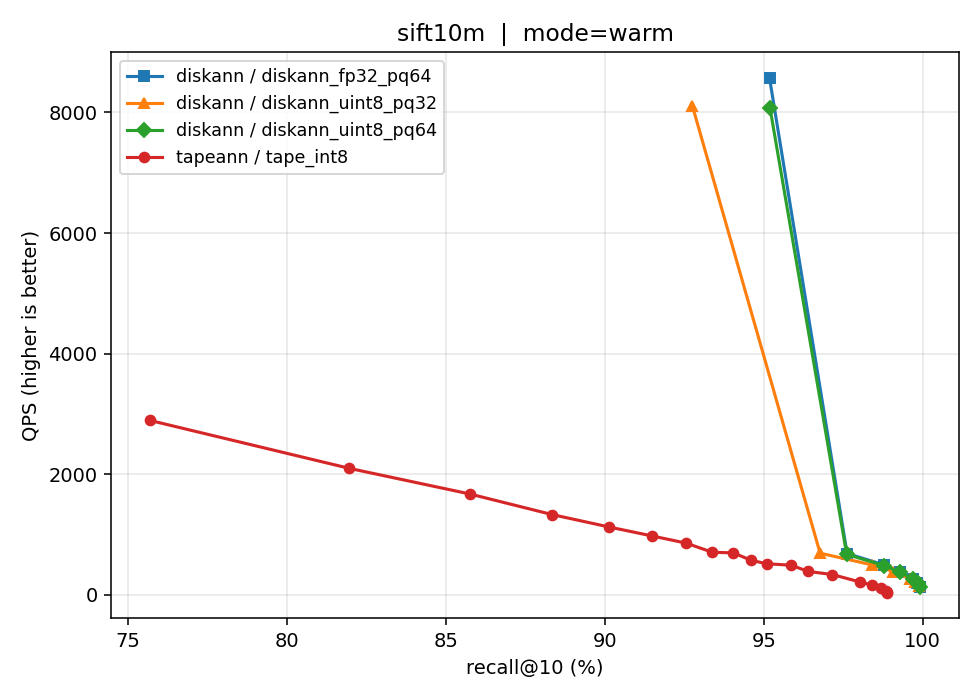
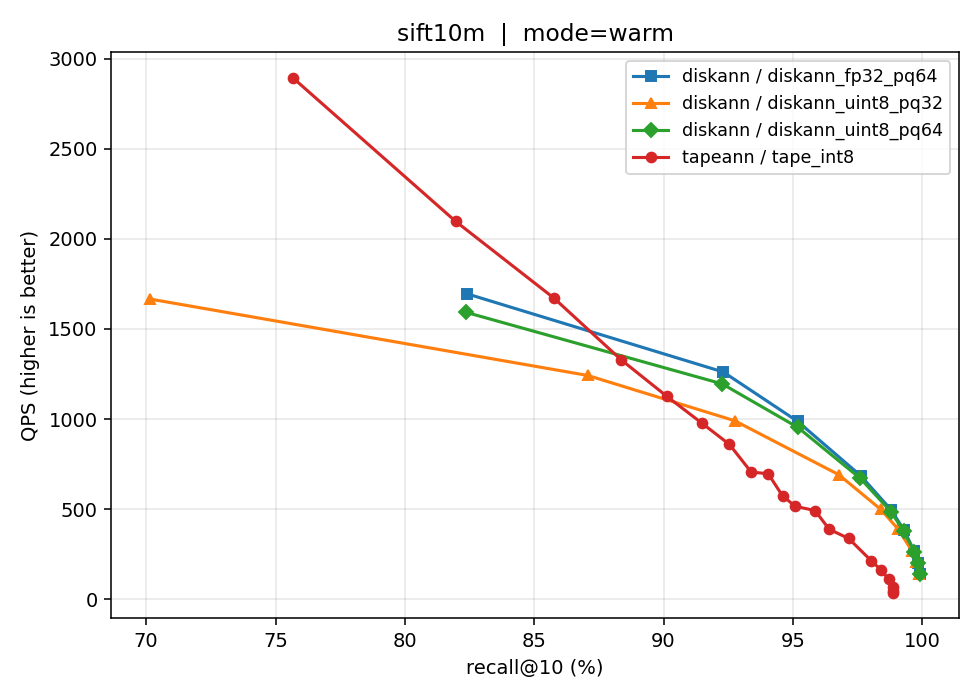
missing stuff added

diff --git a/bench/analyze/plots.py b/bench/analyze/plots.py
@@ -109,18 +109,23 @@ def main():
     if not rows:
         print("no aggregated.csv — run pareto.py first.")
         return
-    datasets = sorted({r["dataset"] for r in rows})
-    modes    = sorted({r["mode"] for r in rows})
+    # Recall-curve plots: single-threaded only so the DiskANN thread-sweep
+    # rows (which reach ~8000 QPS at one canonical recall point) don't
+    # dominate and collapse the full recall curve. Thread scaling has its
+    # own dedicated plot below.
+    single = [r for r in rows if str(r.get("threads", "1")) == "1"]
+    datasets = sorted({r["dataset"] for r in single})
+    modes    = sorted({r["mode"] for r in single})
     for ds in datasets:
         for m in modes:
-            plot_panel(rows, ds, m, "mean_ms_median",
+            plot_panel(single, ds, m, "mean_ms_median",
                        "mean latency (ms, lower is better)",
                        y_log=True,  fname=f"recall_vs_latency__{ds}__{m}.png")
-            plot_panel(rows, ds, m, "qps_median",
+            plot_panel(single, ds, m, "qps_median",
                        "QPS (higher is better)", minimize_y=False,
                        fname=f"recall_vs_qps__{ds}__{m}.png")
             # App-level bytes/query is meaningful in every mode (cache-agnostic).
-            plot_panel(rows, ds, m, "bytes_per_query_app_median",
+            plot_panel(single, ds, m, "bytes_per_query_app_median",
                        "application bytes read per query (lower is better)",
                        y_log=True,  fname=f"recall_vs_bytes__{ds}__{m}.png")
     thread_sweep_plot(rows)
